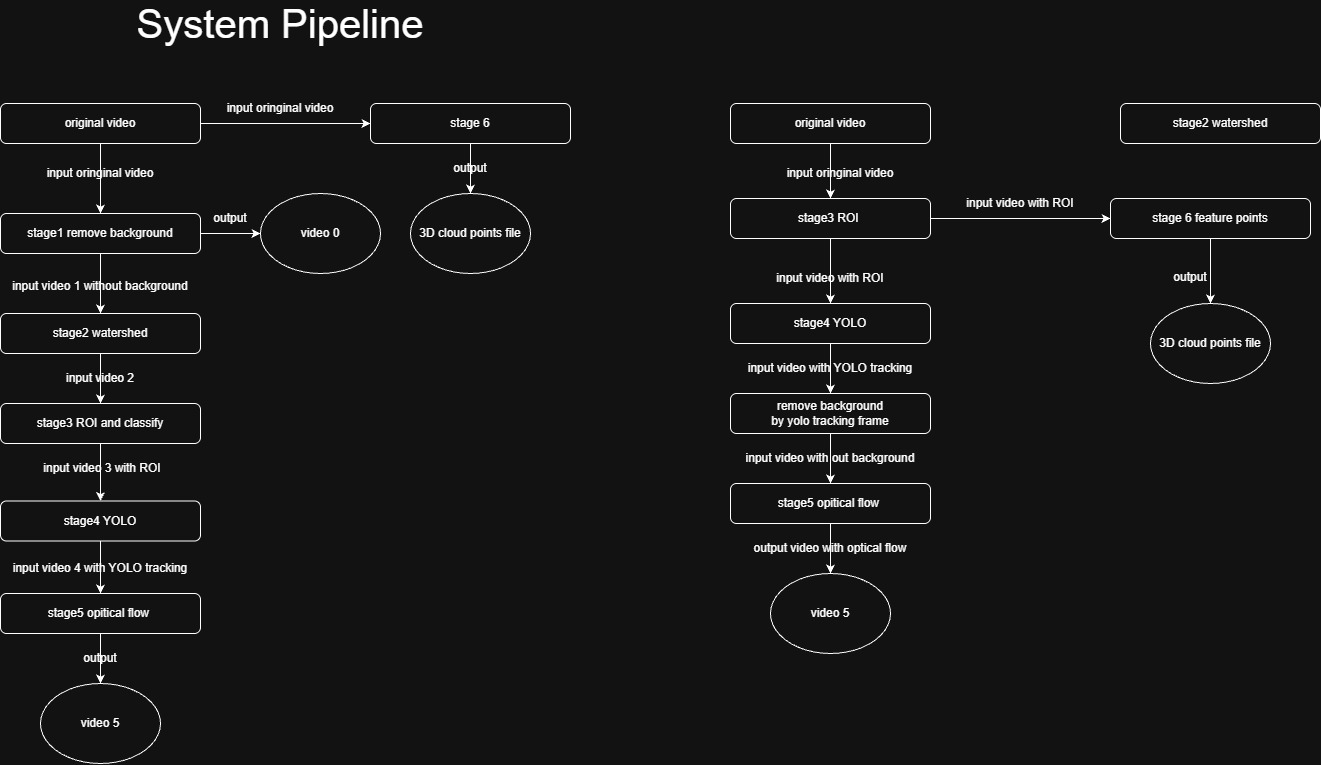
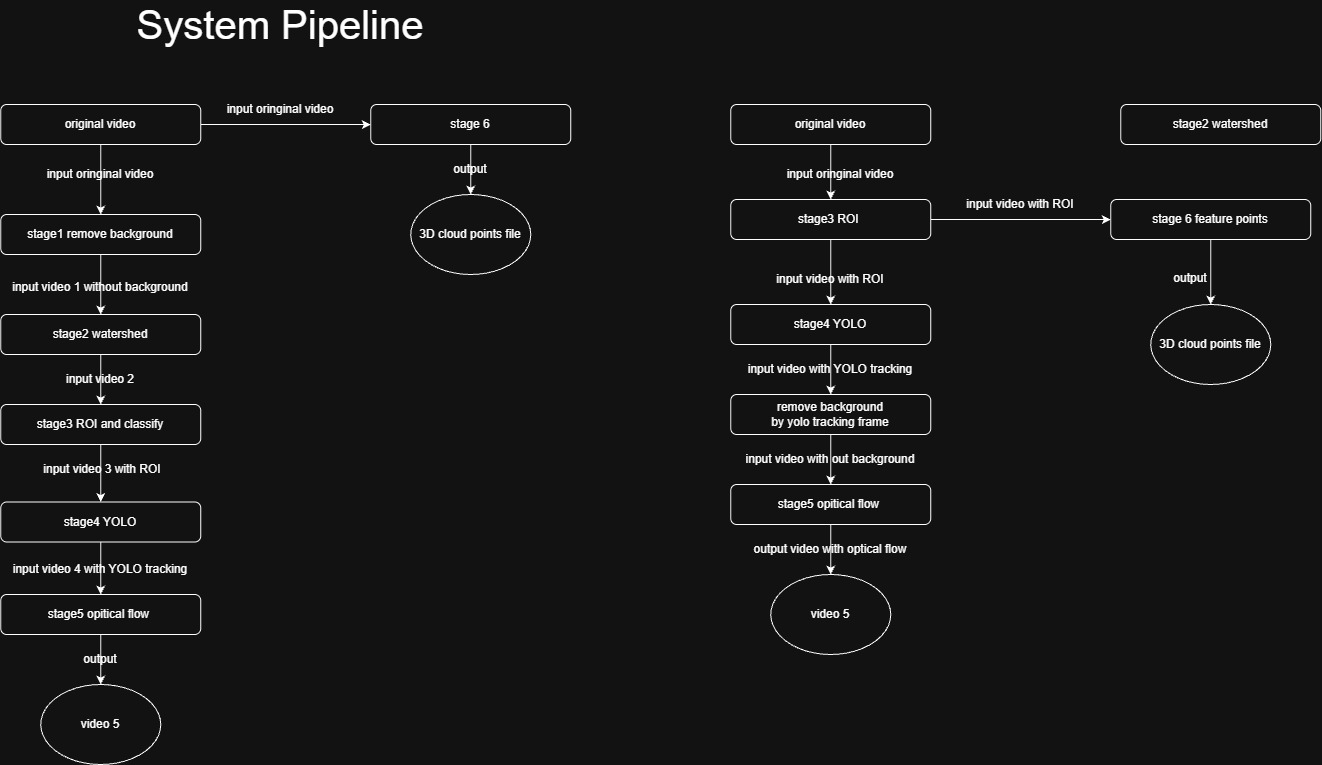
Feat: update video merge logic
- merge_video.py: update to merge original video and output video only
- scripts.py: change video merge output path

diff --git a/merge_video.py b/merge_video.py
@@ -1,27 +1,10 @@
 import cv2
 import numpy as np
-import glob
 import os
+import argparse
 
-folder_path = 'results'
 
-video_extensions = ['*.mp4', '*.avi', '*.mov', '*.mkv', '*.flv', '*.wmv']
-video_paths = []
-for ext in video_extensions:
-    video_paths.extend(glob.glob(os.path.join(folder_path, ext)))
-
-if not video_paths:
-    print("沒有找到影片！")
-    exit()
-
-print(f"找到 {len(video_paths)} 個影片")
-video_paths = video_paths[:9]
-caps = [cv2.VideoCapture(path) for path in video_paths]
-
-fps = 30
-out = cv2.VideoWriter('output.mp4', cv2.VideoWriter_fourcc(*'XVID'), fps, (1440, 1080))
-
-def resize_keep_ratio(frame, target_w=480, target_h=360):
+def resize_keep_ratio(frame, target_w, target_h):
     if frame is None or frame.size == 0:
         return np.zeros((target_h, target_w, 3), dtype=np.uint8)
     h, w = frame.shape[:2]
@@ -29,7 +12,7 @@ def resize_keep_ratio(frame, target_w=480, target_h=360):
     new_w = int(w * scale)
     new_h = int(h * scale)
     resized = cv2.resize(frame, (new_w, new_h))
-    
+
     delta_w = target_w - new_w
     delta_h = target_h - new_h
     top = delta_h // 2
@@ -38,47 +21,75 @@ def resize_keep_ratio(frame, target_w=480, target_h=360):
     right = delta_w - left
     return cv2.copyMakeBorder(resized, top, bottom, left, right, cv2.BORDER_CONSTANT, value=(0, 0, 0))
 
-frame_count = 0
-while True:
-    frames = []
-    all_ended = True
-    for i, cap in enumerate(caps):
-        ret, frame = cap.read()
-        if ret:
-            all_ended = False
-        processed = resize_keep_ratio(frame)
-        
-        filename = os.path.basename(video_paths[i])
-        cv2.putText(processed, filename[:28], (12, 28), cv2.FONT_HERSHEY_SIMPLEX, 
-                    0.6, (255, 255, 255), 2, cv2.LINE_AA)
-        cv2.putText(processed, filename[:28], (12, 28), cv2.FONT_HERSHEY_SIMPLEX, 
-                    0.6, (0, 0, 0), 1, cv2.LINE_AA)
-        
-        frames.append(processed)
-    
-    if all_ended and frame_count > 0:
-        break
-    
-    while len(frames) < 9:
-        frames.append(np.zeros((360, 480, 3), dtype=np.uint8))
-    
-    row1 = np.hstack(frames[0:3])
-    row2 = np.hstack(frames[3:6])
-    row3 = np.hstack(frames[6:9])
-    combined = np.vstack((row1, row2, row3))
-    
-    out.write(combined)
-    cv2.imshow('3x3 Preview (Press q to stop)', combined)
-    frame_count += 1
-    if frame_count % 100 == 0:
-        print(f"已處理第 {frame_count} 幀", end='\r')
-    
-    if cv2.waitKey(1) & 0xFF == ord('q'):
-        break
 
-for cap in caps:
-    cap.release()
-out.release()
-cv2.destroyAllWindows()
+def main():
+    parser = argparse.ArgumentParser(description="將原始影片與結果影片左右並排合併，方便比較")
+    parser.add_argument("--original", required=True, help="原始影片路徑（放在左邊）")
+    parser.add_argument("--processed", required=True, help="結果影片路徑（放在右邊）")
+    parser.add_argument("--output", default="output.mp4", help="輸出檔案路徑")
+    parser.add_argument("--width", type=int, default=960, help="單邊影片寬度（輸出總寬度會是 2 倍）")
+    parser.add_argument("--height", type=int, default=720, help="單邊影片高度")
+    parser.add_argument("--fps", type=int, default=30, help="輸出影片的 FPS")
+    parser.add_argument("--no-preview", action="store_true", help="不開預覽視窗（自動化 / 無畫面環境請加上）")
+    args = parser.parse_args()
 
-print(f"\n匯出完成！output.mp4 （共 {frame_count} 幀）")
+    if not os.path.exists(args.original):
+        print(f"找不到原始影片：{args.original}")
+        return
+    if not os.path.exists(args.processed):
+        print(f"找不到結果影片：{args.processed}")
+        return
+
+    cap_original = cv2.VideoCapture(args.original)
+    cap_processed = cv2.VideoCapture(args.processed)
+
+    out_dir = os.path.dirname(args.output)
+    if out_dir:
+        os.makedirs(out_dir, exist_ok=True)
+
+    out_w, out_h = args.width, args.height
+    out = cv2.VideoWriter(args.output, cv2.VideoWriter_fourcc(*'mp4v'), args.fps, (out_w * 2, out_h))
+
+    label_original = os.path.basename(args.original)[:28]
+    label_processed = os.path.basename(args.processed)[:28]
+
+    frame_count = 0
+    while True:
+        ret_o, frame_o = cap_original.read()
+        ret_p, frame_p = cap_processed.read()
+
+        if not ret_o and not ret_p:
+            break
+
+        left = resize_keep_ratio(frame_o if ret_o else None, out_w, out_h)
+        right = resize_keep_ratio(frame_p if ret_p else None, out_w, out_h)
+
+        for frame, label in ((left, label_original), (right, label_processed)):
+            cv2.putText(frame, label, (12, 28), cv2.FONT_HERSHEY_SIMPLEX,
+                        0.6, (255, 255, 255), 2, cv2.LINE_AA)
+            cv2.putText(frame, label, (12, 28), cv2.FONT_HERSHEY_SIMPLEX,
+                        0.6, (0, 0, 0), 1, cv2.LINE_AA)
+
+        combined = np.hstack((left, right))
+        out.write(combined)
+
+        if not args.no_preview:
+            cv2.imshow('Compare (Press q to stop)', combined)
+            if cv2.waitKey(1) & 0xFF == ord('q'):
+                break
+
+        frame_count += 1
+        if frame_count % 100 == 0:
+            print(f"已處理第 {frame_count} 幀", end='\r')
+
+    cap_original.release()
+    cap_processed.release()
+    out.release()
+    if not args.no_preview:
+        cv2.destroyAllWindows()
+
+    print(f"\n匯出完成！{args.output}（共 {frame_count} 幀）")
+
+
+if __name__ == "__main__":
+    main()

diff --git a/scripts.py b/scripts.py
@@ -37,6 +37,7 @@ STAGE4_OUTPUT_NAME = "YOLO_result.mp4"
 
 RESULTS_DIR = ROOT / "results"
 LOG_DIR = RESULTS_DIR / "log"
+COMBINE_DIR = RESULTS_DIR / "combine"
 MERGE_SCRIPT = ROOT / "merge_video.py"
 MERGE_OUTPUT = ROOT / "output.mp4"
 
@@ -352,6 +353,32 @@ def build_step(step_type: str, mode: dict, mode5: dict, source: Path, output_dir
         return f"Stage5 - {mode5['name']}", mode5["workdir"], cmd, output
 
 
+def run_merge_compare(original: Path, processed: Path, output_dir: Path):
+    """呼叫 merge_video.py，把原始影片與這次的結果影片左右並排合併，存到 output_dir。"""
+    if not MERGE_SCRIPT.exists():
+        print(f"找不到 merge_video.py：{MERGE_SCRIPT}，略過合併比較影片。")
+        return None
+
+    output_path = unique_path(output_dir / f"{processed.stem}-compare.mp4")
+    cmd = [
+        "python", str(MERGE_SCRIPT),
+        "--original", str(original),
+        "--processed", str(processed),
+        "--output", str(output_path),
+        "--no-preview",
+    ]
+
+    print(f"\n{'=' * 50}\n產生合併比較影片 → {output_path.name}\n{'=' * 50}")
+    returncode = run_subprocess_logged(cmd, ROOT)
+
+    if returncode != 0 or not output_path.exists() or output_path.stat().st_size == 0:
+        print("合併比較影片產生失敗，略過（不影響主要結果）。")
+        return None
+
+    print(f"合併比較影片完成 → {output_path}")
+    return output_path
+
+
 def run_one_combo(mode, mode5, order, stage4_model=None, stage4_imgsz=None, stage4_conf=None, combo_index=0):
     combo_start = time.time()
     current = SOURCE_VIDEO
@@ -414,6 +441,9 @@ def run_one_combo(mode, mode5, order, stage4_model=None, stage4_imgsz=None, stag
         log_file.close()
         tmp_log_path.replace(log_final_path)
 
+        # 產生與原始影片並排比較的版本，存到 results/combine 資料夾
+        run_merge_compare(SOURCE_VIDEO, final_path, COMBINE_DIR)
+
         return True, final_path, time.time() - combo_start
     finally:
         # 保險：不論成功或例外，都要把 stdout/stderr 還原
@@ -424,6 +454,7 @@ def run_one_combo(mode, mode5, order, stage4_model=None, stage4_imgsz=None, stag
 def main():
     RESULTS_DIR.mkdir(parents=True, exist_ok=True)
     LOG_DIR.mkdir(parents=True, exist_ok=True)
+    COMBINE_DIR.mkdir(parents=True, exist_ok=True)
 
     # Step 1: 先選擇是否擷取
     print(f"\n{'=' * 60}")
@@ -449,6 +480,7 @@ def main():
 
     # Step 4: 開始執行 Pipeline
     # 每個組合執行時會自動記錄 log，執行完成後 log 檔名會跟輸出的影片檔名相同（副檔名 .log）
+    # 每個組合成功後也會自動產生與原始影片並排比較的版本，存到 results/combine 資料夾
     combos = list(itertools.product(modes, modes5))
     print(f"\n共 {len(combos)} 組合，執行順序：{' → '.join(order)}\n")
 